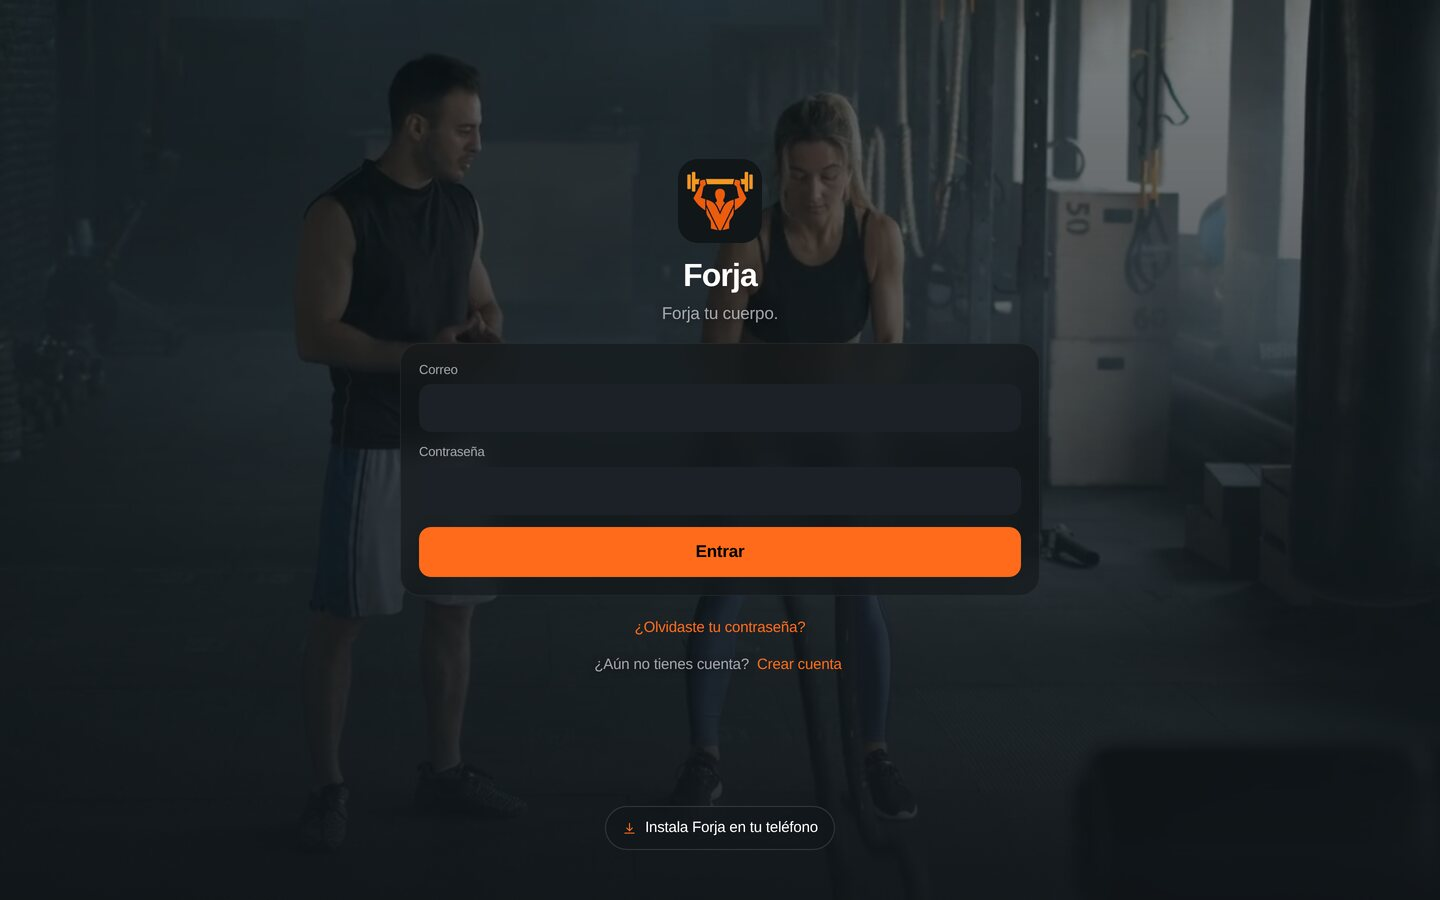
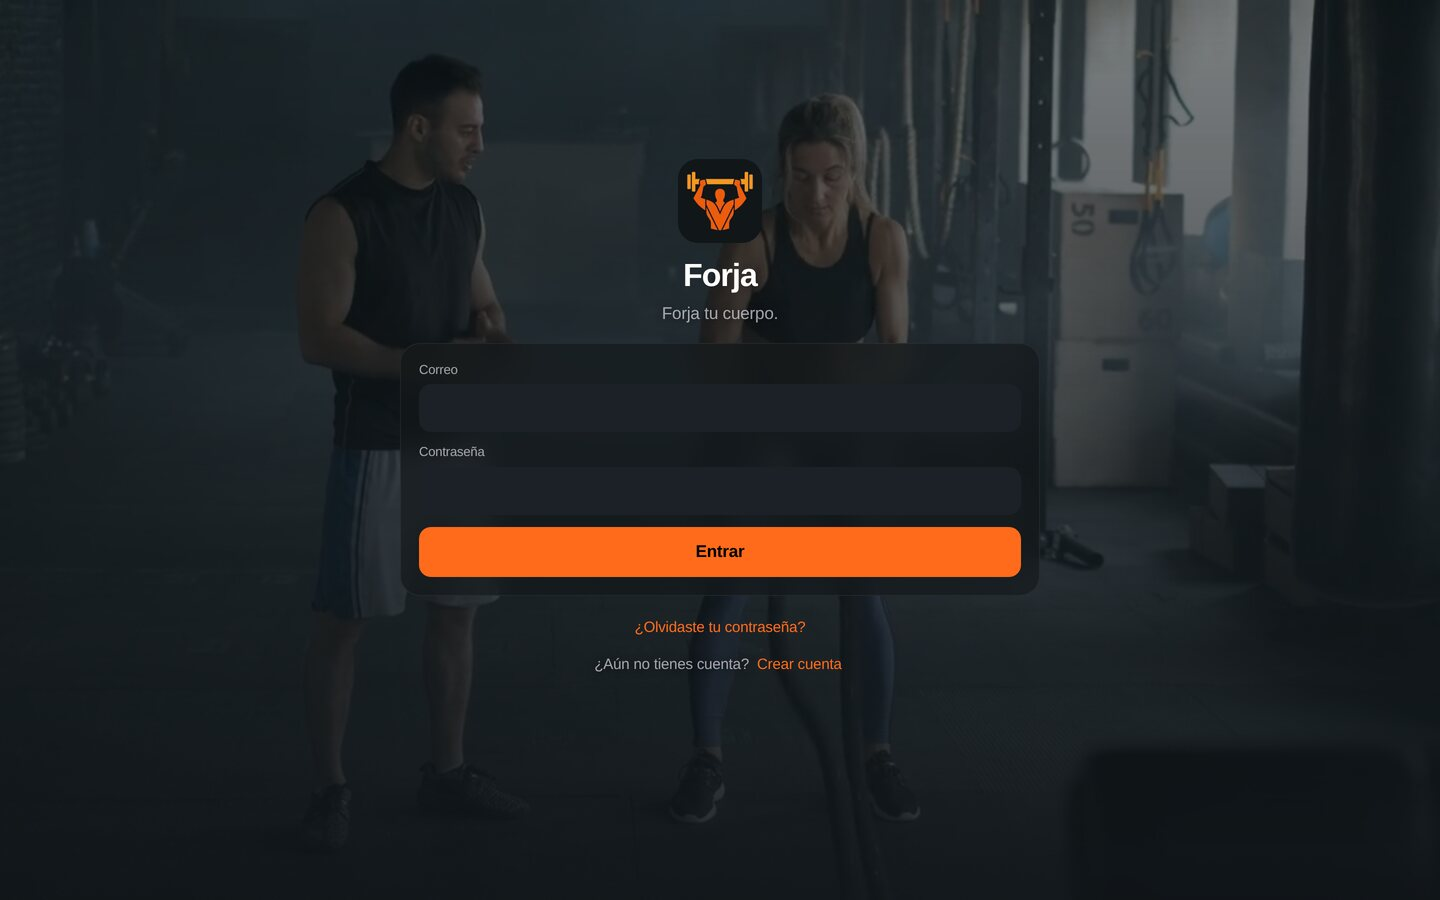
fix: «Instala Forja» solo en teléfonos y tablets, no en la computadora

diff --git a/frontend/src/lib/forja-install.test.js b/frontend/src/lib/forja-install.test.js
@@ -39,11 +39,13 @@ describe('installMode', () => {
   })
   it('prefers the native prompt, then Safari steps, then the browser menu', () => {
     expect(installMode({ plat: 'android', standalone: false, canPrompt: true })).toBe('prompt')
-    expect(installMode({ plat: 'desktop', standalone: false, canPrompt: true })).toBe('prompt')
     expect(installMode({ plat: 'ios-safari', standalone: false, canPrompt: false })).toBe('ios')
     expect(installMode({ plat: 'ios-other', standalone: false, canPrompt: false })).toBe('ios-other')
     expect(installMode({ plat: 'android', standalone: false, canPrompt: false })).toBe('menu')
     expect(installMode({ plat: 'desktop', standalone: false, canPrompt: false })).toBeNull()
+  })
+  it('never offers it on a computer, even when Chrome could install', () => {
+    expect(installMode({ plat: 'desktop', standalone: false, canPrompt: true })).toBeNull()
   })
 })
 

diff --git a/frontend/src/lib/forja-install.js b/frontend/src/lib/forja-install.js
@@ -20,7 +20,8 @@ export function isStandalone(w = globalThis) {
 // Qué ofrecer: 'prompt' (botón con el diálogo nativo), 'ios' (pasos de Safari),
 // 'ios-other' (abrir en Safari primero, o compartir en Chrome de iOS), 'menu' (menú del navegador) o null.
 export function installMode({ plat, standalone, canPrompt }) {
-  if (standalone) return null
+  // Solo en teléfonos y tablets: en la computadora no se ofrece instalar.
+  if (standalone || plat === 'desktop') return null
   if (canPrompt) return 'prompt'
   if (plat === 'ios-safari') return 'ios'
   if (plat === 'ios-other') return 'ios-other'

diff --git a/frontend/src/views/forja/Install.jsx b/frontend/src/views/forja/Install.jsx
@@ -63,7 +63,7 @@ export function InstallBanner() {
   const mode = useInstall()
   const [hidden, setHidden] = useState(() => wasDismissed())
   const [open, setOpen] = useState(false)
-  if (!mode || hidden || platform() === 'desktop') return null
+  if (!mode || hidden) return null
   const close = () => { dismiss(); setHidden(true) }
   return <div className="fj-install-banner" role="region" aria-label={`Instalar ${BRAND}`}>
     <img src="icon-192.png" alt="" />
